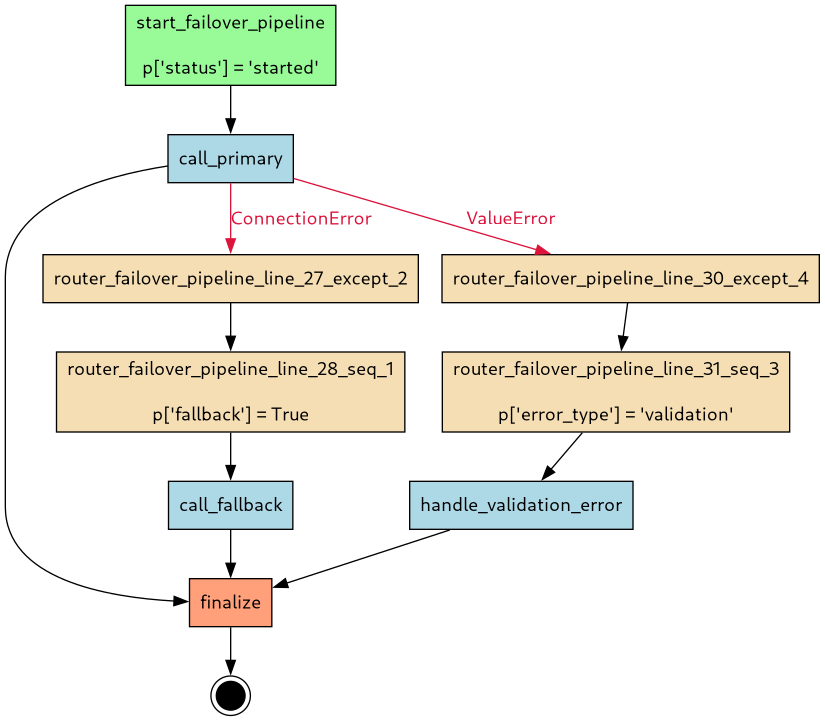
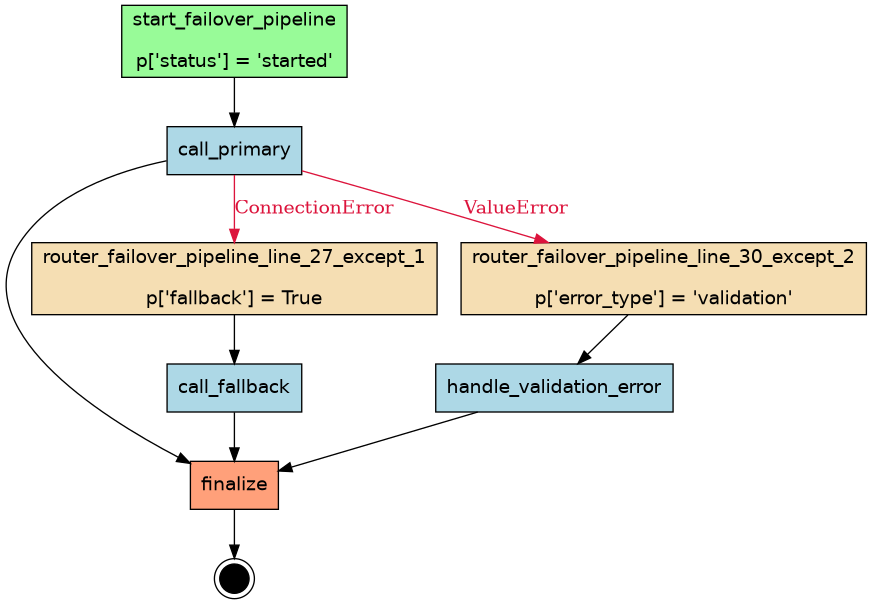
chore: recompile resiliency_error_routing with inlined except routers

diff --git a/examples/flows/compiled/resiliency_error_routing/routers.py b/examples/flows/compiled/resiliency_error_routing/routers.py
@@ -23,34 +23,18 @@ async def start_failover_pipeline(payload: dict):
     yield "SET", ".route.next[:0]", _next
     yield payload
 
-async def router_failover_pipeline_line_28_seq_1(payload: dict):
-    """Router for control flow and payload mutations"""
+async def router_failover_pipeline_line_27_except_1(payload: dict):
+    """Router for error handling (except clause)"""
     p = payload
-    _next = []
     p['fallback'] = True
-    _next.append(resolve("call_fallback"))
-
-    yield "SET", ".route.next[:0]", _next
+    yield "SET", ".route.next", [resolve('call_fallback'), resolve('finalize')]
     yield payload
 
-async def router_failover_pipeline_line_27_except_2(payload: dict):
+async def router_failover_pipeline_line_30_except_2(payload: dict):
     """Router for error handling (except clause)"""
-    yield "SET", ".route.next", [resolve('router_failover_pipeline_line_28_seq_1'), resolve('finalize')]
-    yield payload
-
-async def router_failover_pipeline_line_31_seq_3(payload: dict):
-    """Router for control flow and payload mutations"""
     p = payload
-    _next = []
     p['error_type'] = 'validation'
-    _next.append(resolve("handle_validation_error"))
-
-    yield "SET", ".route.next[:0]", _next
-    yield payload
-
-async def router_failover_pipeline_line_30_except_4(payload: dict):
-    """Router for error handling (except clause)"""
-    yield "SET", ".route.next", [resolve('router_failover_pipeline_line_31_seq_3'), resolve('finalize')]
+    yield "SET", ".route.next", [resolve('handle_validation_error'), resolve('finalize')]
     yield payload
 
 
